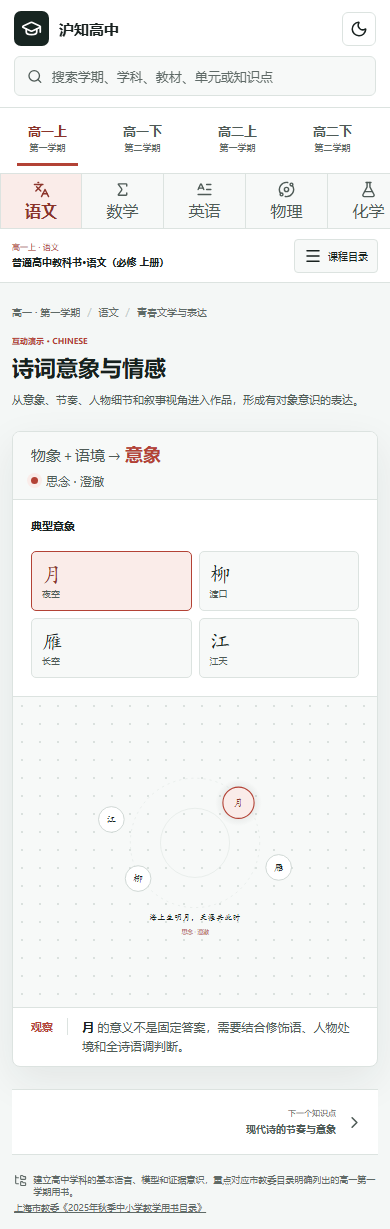
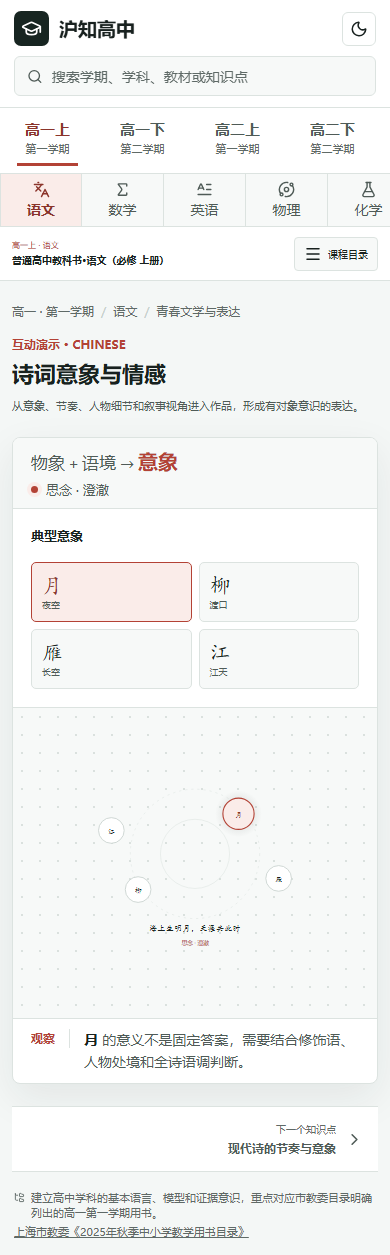
fix: increase learning interface typography

diff --git a/src/App.css b/src/App.css
@@ -556,6 +556,68 @@
 .search-summary, .search-more { margin: 0; padding: 8px 10px; color: var(--faint); font-size: 9px; }
 .search-more { border-top: 1px solid var(--line); }
 
+/* Readable learning typography */
+.brand-name { font-size: 19px; }
+.brand-edition { font-size: 12px; }
+.global-search input { font-size: 14px; }
+.search-results strong { font-size: 14px; }
+.search-results small { font-size: 12px; }
+.search-summary, .search-more { font-size: 11px; }
+.curriculum-tag { font-size: 13px; }
+
+.semester-nav > p { font-size: 12px; }
+.semester-nav strong { font-size: 15px; }
+.semester-nav small { font-size: 11px; }
+.subject-nav button span { font-size: 14px; }
+.subject-nav button small { font-size: 11px; }
+.mobile-course-bar small { font-size: 10px; }
+.mobile-course-bar strong, .mobile-course-bar button { font-size: 12px; }
+
+.catalog-header p { font-size: 11px; }
+.catalog-header h2 { font-size: 17px; }
+.book-meta, .book-meta strong { font-size: 11px; }
+.course-note { font-size: 12px; }
+.unit-directory summary > span, .unit-directory summary small { font-size: 11px; }
+.unit-directory summary strong { font-size: 13px; }
+.unit-directory details > p { font-size: 11px; }
+.unit-directory li button > span, .unit-directory li button small { font-size: 10px; }
+.unit-directory li button strong { font-size: 12px; }
+
+.content-breadcrumb { font-size: 12px; }
+.eyebrow { font-size: 12px; }
+.topic-heading h1 { font-size: 32px; }
+.topic-focus { font-size: 14px; }
+.topic-index small { font-size: 13px; }
+.knowledge-question p, .detail-section-heading p { font-size: 11px; }
+.knowledge-question h2 { font-size: 20px; }
+.detail-section-heading h3 { font-size: 16px; }
+.concept-path small { font-size: 10px; }
+.concept-path strong { font-size: 12px; }
+.unit-focus { font-size: 13px; }
+.key-points li span { font-size: 11px; }
+.key-points li p { font-size: 13px; }
+.common-pitfall h3 { font-size: 13px; }
+.common-pitfall p { font-size: 12px; }
+
+.formula-display { font-size: 17px; }
+.formula-display b { font-size: 20px; }
+.live-status { font-size: 13px; }
+.control-title { font-size: 13px; }
+.range-field b, .select-field span { font-size: 13px; }
+.range-field output { font-size: 14px; }
+.range-field small, .control-panel small { font-size: 11px; }
+.control-panel button { font-size: 12px; }
+.mini-stats small, .solar-readout small, .flow-balance small { font-size: 11px; }
+.mini-stats b, .solar-readout b, .flow-balance b { font-size: 15px; }
+.plot text { font-size: 12px; }
+.visual-panel small { font-size: 11px; }
+.visual-panel strong { font-size: 14px; }
+.insight-bar { font-size: 14px; }
+.insight-bar strong { font-size: 12px; }
+.topic-pagination small { font-size: 10px; }
+.topic-pagination strong { font-size: 12px; }
+.content-footer { font-size: 11px; }
+
 @media (max-width: 1180px) {
   .semester-nav { grid-template-columns: 110px minmax(0, 1fr); padding-inline: 18px; }
   .subject-nav { padding-inline: 12px; overflow-x: auto; scrollbar-width: thin; }

diff --git a/src/App.tsx b/src/App.tsx
@@ -245,7 +245,7 @@ function App() {
               setSearchOpen(true)
             }}
             onFocus={() => setSearchOpen(true)}
-            placeholder="搜索学期、学科、教材、单元或知识点"
+            placeholder="搜索学期、学科、教材或知识点"
             aria-label="搜索全部课程内容"
           />
           {query && (
